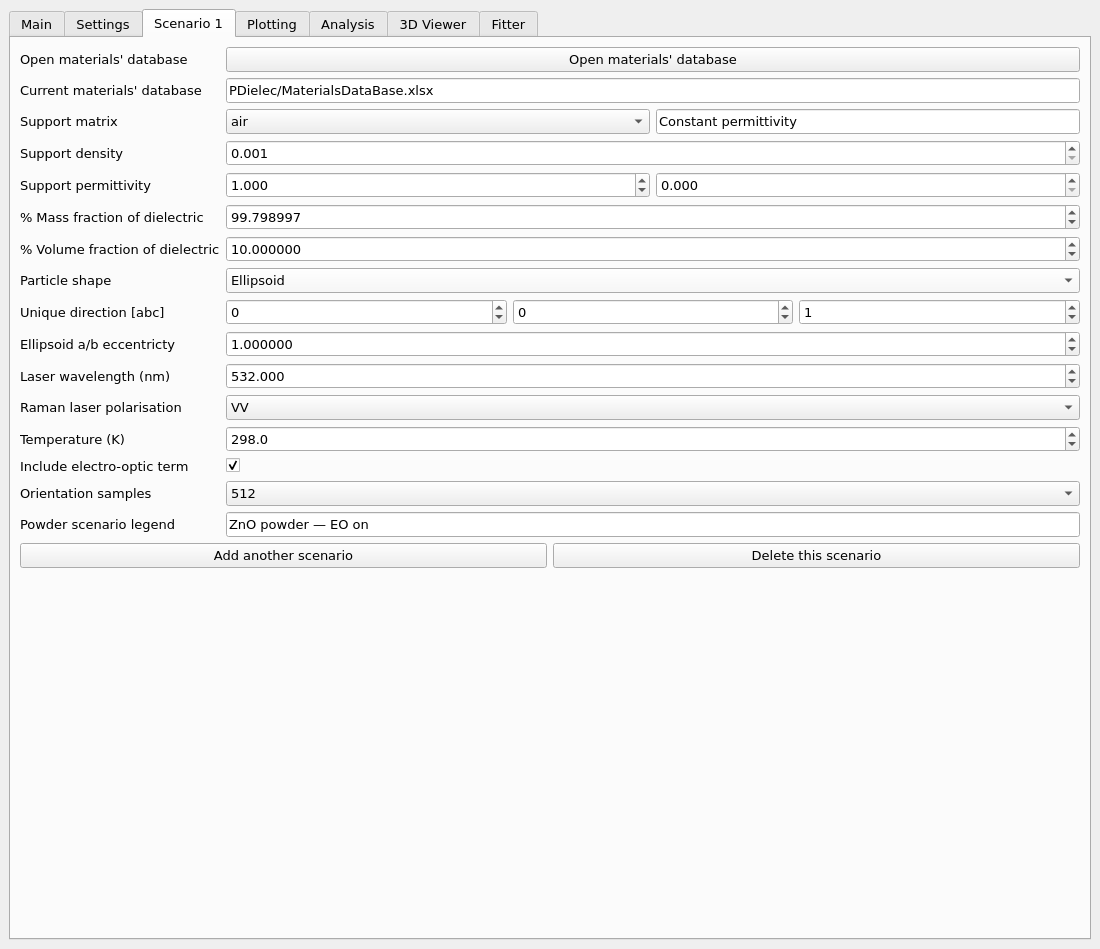
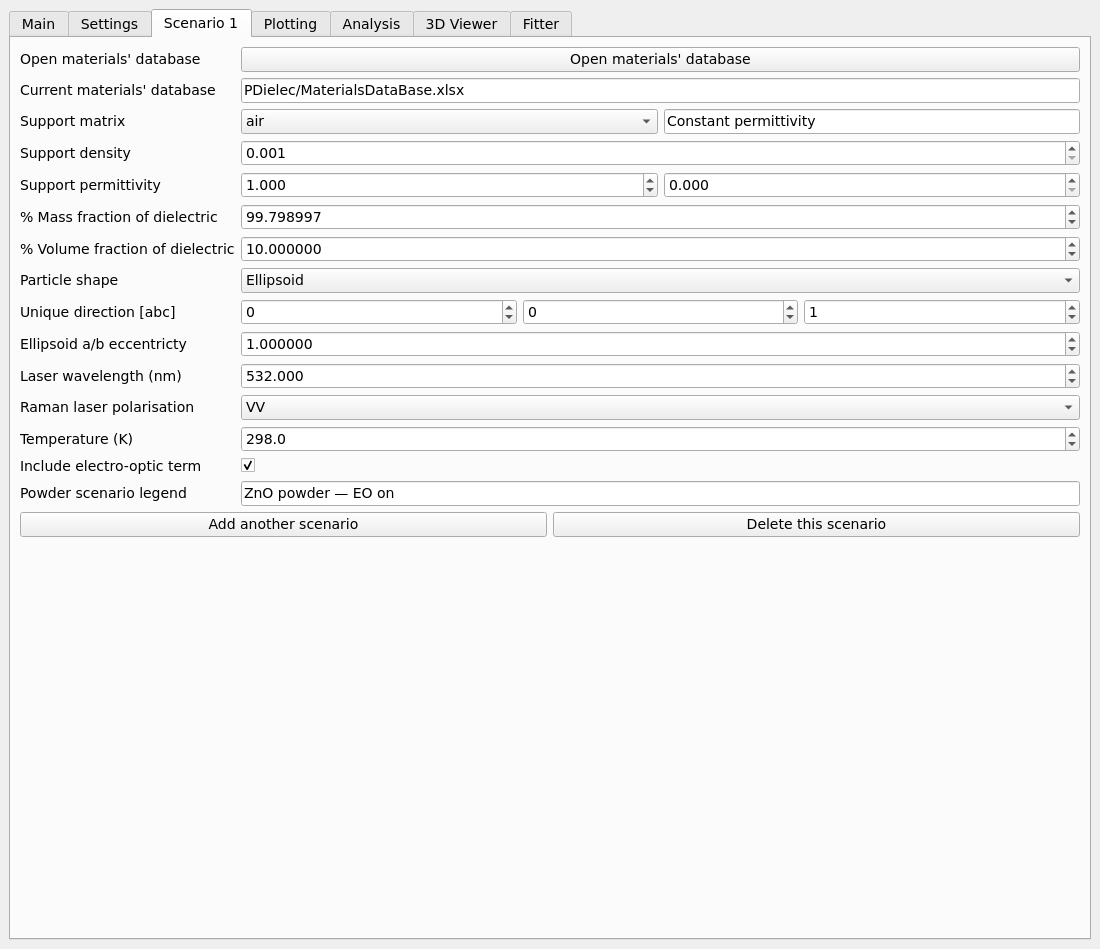
Updating documentation

diff --git a/Sphinx/RamanUnits.rst b/Sphinx/RamanUnits.rst
@@ -1,0 +1,173 @@
+.. include:: preamble.txt
+
+.. _Raman-Units:
+
+Raman units and implementation conventions
+==========================================
+
+This is the shared numerical-conversion reference for the powder and crystal
+Raman chapters. The physical derivations use SI quantities; numerical Raman
+frequencies denoted by :math:`\nu` are wavenumbers in cm\ :sup:`−1`.
+Use :math:`f` for ordinary frequency in Hz and :math:`\omega=2\pi f` for
+angular frequency. The GTM optical solver takes Hz, whereas Raman interfaces
+and linewidths use wavenumbers. Material properties are relative permittivities.
+
+.. list-table:: Common optical and Raman conversion boundaries
+   :header-rows: 1
+   :widths: 28 36 36
+
+   * - Quantity
+     - Stored convention
+     - Conversion or consequence
+   * - Optical frequency
+     - Wavenumber in cm\ :sup:`−1`
+     - :math:`f_{Hz}=100c_{SI}\nu`, :math:`\omega=2\pi f_{Hz}`
+   * - Laser wavelength
+     - Nanometres
+     - :math:`\nu_L=10^7/\lambda_{nm}`
+   * - Optical depth and phase
+     - Depth in metres; :math:`\zeta,q_z` dimensionless
+     - :math:`k_0=2\pi100\nu`; propagation phase uses :math:`k_0q_z z`
+   * - Raman depth quadrature
+     - Weights in Å
+     - Metre-valued quadrature weights multiplied by :math:`10^{10}`
+   * - Raman tensor
+     - :math:`R_\epsilon` in :math:`\sqrt{\mathrm{Å}/\mathrm{amu}}`
+     - Multiply by :math:`\sqrt{10^{-10}/m_u}` for :math:`\sqrt{\mathrm m/\mathrm{kg}}`
+   * - Raw coherent overlap squared
+     - Å cubed per amu
+     - Multiply by :math:`10^{-30}/m_u` for cubic metres per kg
+   * - Local or normalized-profile weight
+     - Å squared per amu
+     - Multiply by :math:`10^{-20}/m_u` for square metres per kg
+   * - Stokes prefactor
+     - :math:`\nu_S^4(n+1)/\nu_m`, all wavenumbers in cm\ :sup:`−1`
+     - Applied once; excludes absolute radiation and collection constants
+   * - Broadened line
+     - :math:`I_m\sigma_m/[(\nu-\nu_m)^2+\sigma_m^2]`
+     - Full area :math:`\pi I_m`; width is HWHM
+
+Here :math:`m_u` is the atomic mass unit in kg. These conversions do not equate
+raw coherent and local observables or supply missing physical normalization.
+
+
+Cell, mode and response conversions
+-----------------------------------
+
+.. list-table:: Lattice and response quantities
+   :header-rows: 1
+   :widths: 24 36 40
+
+   * - Quantity
+     - Stored convention
+     - Boundary or consequence
+   * - Cell volume
+     - Reader volume in Å cubed
+     - :math:`V_{SI}=10^{-30}V`; NAC uses :math:`V_{au}=V\,\mathrm{angs2bohr}^3`
+   * - Atomic masses
+     - Reader masses in amu
+     - NAC uses :math:`M_{au}=M\,\mathrm{Constants.amu}`; SI uses :math:`M m_u`
+   * - Born charge
+     - Elementary-charge units, crystal Cartesian frame
+     - Multiply by :math:`e` for coulombs; mass-weighted matrix divides by :math:`\sqrt{M_{au}}` in the NAC kernel
+   * - Mode coordinate
+     - :math:`Q` in Å times square root of amu; dimensionless unit-normalised mass-weighted eigenvector :math:`u`
+     - :math:`Q_{SI}=10^{-10}\sqrt{m_u}Q`; displacement :math:`r_a=u_a Q/\sqrt{M_a}`
+   * - Dynamical matrix
+     - Hartree atomic units in NAC calculations
+     - Signed wavenumber :math:`\nu=\operatorname{sgn}(\lambda)\sqrt{|\lambda|}/\mathrm{Constants.wavenumber}`; negative values flag instability
+   * - Polarizability-volume Raman derivative
+     - :math:`R_\alpha` in Å squared per square root of amu
+     - :math:`R_\epsilon=4\pi R_\alpha/\sqrt{V}`; this source convention differs from SI dipole polarizability
+   * - Activity display
+     - Å to the fourth power per amu
+     - Multiply the corresponding internal quadratic tensor activity by :math:`V/(16\pi^2)`; this is not a spectrum or cross section
+   * - Nonlinear susceptibility
+     - Physical input in pm/V, then cell-dependent internal value
+     - :math:`\widetilde\chi^{(2)}=\chi^{(2)}[\mathrm{pm/V}]\sqrt{m_u/m_e}\,e10^8/(4\pi\epsilon_0\sqrt{V})`
+   * - Local-field factors
+     - Dimensionless tensors in the same Cartesian frame as the Raman tensor
+     - :math:`R_{eff}=N_S^T R_\epsilon N_L` retains the bulk tensor units; transpose is not conjugate transpose
+
+Here :math:`V` in reader conversions is the numerical volume in Å cubed,
+:math:`m_e` and :math:`m_u` are masses in kg, and :math:`e` is in coulombs.
+``Constants.amu`` is the mass ratio :math:`m_u/m_e`, not a mass in kg.
+``Constants.wavenumber`` is :math:`100hc_{SI}/E_h`. For an SI dynamical
+matrix, use :math:`\operatorname{sgn}(\lambda)\sqrt{|\lambda|}/(2\pi100c_{SI})`
+instead. Do not insert SI charges or masses into the atomic-unit NAC kernel.
+The internal EO contraction uses :math:`-8\pi\widetilde\chi^{(2)}` with
+atomic-unit mass-weighted charges; it cannot take raw pm/V input.
+
+Implementation and frames
+-------------------------
+
+* ``GenericOutputReader.get_raman_tensors`` returns bulk
+  :math:`R_\epsilon=\sqrt{V_{cell}}\partial\epsilon/\partial Q` in crystal
+  Cartesian axes. Reader-specific native conversions precede this boundary.
+  ``chi2_pm_per_v_to_repsilon`` implements the separate nonlinear conversion.
+* ``NACDiagnostics.compute_nac_direction_diagnostics`` accepts atomic-unit
+  masses and volume. Its eigenvectors are dimensionless; its reported mode
+  charges explicitly convert back to :math:`e/\sqrt{\mathrm{amu}}`.
+* ``Calculator.compute_effective_raman_tensor`` applies the two optical
+  factors. A crystal-to-laboratory rotation is :math:`G R G^T`; rotating a
+  tensor changes its components, not its units or cell normalization.
+* ``LayeredRamanCalculator`` uses optical positions in metres and Raman
+  integration weights in Å. Its fields are reduced unit-electric-amplitude
+  launch fields, not physical V/m inputs. GTM magnetic output is scaled by
+  vacuum impedance relative to the same electric reference amplitude.
+* ``RamanSpectrum.stokes_prefactor`` supplies the thermal/radiation weight
+  once. ``lorentzian_broaden`` broadens the weighted line coefficients.
+  The SI unit of a theoretical efficiency must not be attached to these
+  uncalibrated reduced spectra.
+
+Worked conversion examples
+--------------------------
+
+These examples check conventions with prescribed tensors and fields; they are
+not material predictions or new DFT results.
+
+**Reader tensor.** For :math:`V=100` Å cubed and one component
+:math:`R_\alpha=2` Å squared per square root of amu,
+:math:`R_\epsilon=0.8\pi` in :math:`\sqrt{\mathrm{Å}/\mathrm{amu}}`.
+Its square is :math:`0.64\pi^2` Å/amu. Multiplication by
+:math:`V/(16\pi^2)` recovers the squared source component, 4 Å to the fourth
+power per amu. This scalar check is not the full invariant powder activity.
+The SI Raman component is :math:`0.8\pi\sqrt{10^{-10}/m_u}`.
+
+**Powder particle.** Prescribe :math:`R_\epsilon=I` in stored tensor units,
+relative inclusion permittivity 4, host permittivity 1, and a sphere.
+At both optical frequencies :math:`N=3/(4+2)I=I/2`, so
+:math:`R_{eff}=I/4`. The implemented activities are VV = :math:`45/16`
+and VH = 0 in Å/amu. The VV activity is 45 times the orientational mean
+squared amplitude. For a stable mode at 400 cm\ :sup:`−1`, laser at
+20000 cm\ :sup:`−1`, zero temperature, unit volume fraction and HWHM 5
+cm\ :sup:`−1`, the reduced peak height is
+:math:`(45/16)(19600)^4/(400\times5)`. It is not an absolute cross section.
+
+**Crystal layer.** Let the reduced bilinear overlap be constant,
+:math:`e_S^T R_\epsilon e_L=1` in :math:`\sqrt{\mathrm{Å}/\mathrm{amu}}`,
+over a 100 nm layer. Its optical thickness is :math:`10^{-7}` m; its Raman
+quadrature weights sum to 1000 Å. The raw coherent squared overlap is
+:math:`10^6` Å cubed/amu, whereas the local-depth weight is 1000 Å squared/amu.
+A single normalized uniform profile gives the latter weight for this constant
+overlap. Neither expression includes the Stokes prefactor. Doubling thickness
+multiplies the raw coherent weight by four and the local weight by two.
+
+**Spectral axis.** With :math:`a=2\pi100c_{SI}` and
+:math:`\omega=a\nu`, a spectral density obeys
+:math:`I_\omega(\omega)=I_\nu(\omega/a)/a`. Merely relabelling the axis
+or multiplying the line centre and width by :math:`a` does not preserve area.
+The numerical Lorentzian area is :math:`\pi` times its supplied coefficient.
+
+Validation scope
+----------------
+
+The conversion reference records implementation conventions and the bounded
+checks described in the Raman theory chapters. It does not certify all
+materials, optical regimes or physical final-state models. Broader NAC material
+validation and general absorbing/anisotropic multilayer validation will be
+carried out with the package paper's examples. Each example must establish the
+assumptions it relies on before its spectrum is interpreted. Existing datasets
+and controlled limits should be used first; additional DFT calculations require
+an identified missing input or validation case. General extensions outside the
+chosen examples remain separate work.

diff --git a/Sphinx/CrystalRaman.rst b/Sphinx/CrystalRaman.rst
@@ -239,6 +239,34 @@ not determine phonon coherence.  When *Incoherent intensity* is selected, PDiele
 forces separate Raman-active layers to be combined as incoherent intensities,
 because there is then no well-defined layer amplitude to add coherently.
 
+*Normalised incoherent intensity* uses a depth average for each effective
+Raman-active layer, then sums those averages:
+
+.. math::
+   :label: eq-crystal-raman-depth-normalised-incoherent
+
+   I_m \propto \sum_L \frac{1}{d_L}
+   \int_L \left|
+   \mathbf{E}_S(z,\nu_S)^T
+   \tensorbf{R}^{(m)}_{L,lab}
+   \mathbf{E}_L(z,\nu_L)
+   \right|^2\,dz .
+
+Equivalent neighbouring layers are merged using the existing equivalence rules
+before normalisation, even when the script setting ``Coalesce equivalent layers``
+is false. Their combined thickness supplies :math:`d_L`. Layers that cannot be
+merged are averaged separately, and their intensities are added. Zero-thickness
+layers contribute zero. Both incoherent depth choices disable coherent layer
+combination; depth coherence is a calculator-wide setting, separate from each
+layer's optical propagation coherence.
+
+For a single layer with uniform fields the normalised intensity is independent
+of thickness. For an absorbing layer whose integrated signal saturates, the
+average decreases with increasing geometric thickness. Before the common Stokes
+factor, its raw overlap units are Å/amu, compared with Å²/amu for the unnormalised
+incoherent integral. This is a depth average, not absolute scattering power or a
+normalised collective phonon-state model.
+
 The mode intensity is then multiplied by the Stokes radiation and thermal factor,
 
 .. math::
@@ -761,40 +789,7 @@ does not automatically recover every unobserved final state or spectral window.
 Numerical conventions
 ---------------------
 
-.. list-table:: Theory-to-code conversions for the layered Raman calculation
-   :header-rows: 1
-   :widths: 28 36 36
-
-   * - Quantity
-     - Stored convention
-     - Conversion or consequence
-   * - Optical frequency
-     - Wavenumber in cm\ :sup:`−1`
-     - :math:`f_{Hz}=100c_{SI}\nu`, :math:`\omega=2\pi f_{Hz}`
-   * - Laser wavelength
-     - Nanometres
-     - :math:`\nu_L=10^7/\lambda_{nm}`
-   * - Optical depth and phase
-     - Depth in metres; :math:`\zeta,q_z` dimensionless
-     - :math:`k_0=2\pi100\nu`; propagation phase uses :math:`k_0q_z z`
-   * - Raman depth quadrature
-     - Weights in Å
-     - Metre-valued quadrature weights multiplied by :math:`10^{10}`
-   * - Raman tensor
-     - :math:`R_\epsilon` in :math:`\sqrt{\mathrm{Å}/\mathrm{amu}}`
-     - Multiply by :math:`\sqrt{10^{-10}/m_u}` for :math:`\sqrt{\mathrm m/\mathrm{kg}}`
-   * - Raw coherent overlap squared
-     - Å cubed per amu
-     - Multiply by :math:`10^{-30}/m_u` for cubic metres per kg
-   * - Local or normalized-profile weight
-     - Å squared per amu
-     - Multiply by :math:`10^{-20}/m_u` for square metres per kg
-   * - Stokes prefactor
-     - :math:`\nu_S^4(n+1)/\nu_m`, all wavenumbers in cm\ :sup:`−1`
-     - Applied once; excludes absolute radiation and collection constants
-   * - Broadened line
-     - :math:`I_m\sigma_m/[(\nu-\nu_m)^2+\sigma_m^2]`
-     - Full area :math:`\pi I_m`; width is HWHM
-
-Here :math:`m_u` is the atomic mass unit in kg. These conversions do not equate
-raw coherent and local observables or supply missing physical normalization.
+The common conversion table, implementation boundaries and worked examples are
+in :ref:`Raman-Units`. The raw coherent overlap and local-depth integral have
+different length dimensions; converting their units does not make them the same
+observable or supply an absolute Raman cross section.

diff --git a/Sphinx/settings_reference.rst b/Sphinx/settings_reference.rst
@@ -262,9 +262,8 @@ particle-corrected phonons and the electro-optic contribution.
     population factor.
 
 ``Raman orientation samples``
-    Number of numerical orientations for non-spherical particles. The GUI
-    offers ``4, 8, 16, 32, 64, 128, 256, 512, 1024, 2048, 4096``; default
-    ``512``. Increase to check convergence. Spheres use an analytic average.
+    Legacy setting, ignored. All supported powder particle shapes now use
+    analytical orientation averaging; the GUI no longer exposes this control.
 
 ``Raman electro-optic term``
     Boolean, default ``False`` for a new powder scenario. Includes the
@@ -409,8 +408,13 @@ NAC/EO corrections and the different coherence choices.
 
 ``Depth coherence``
     ``'Coherent amplitude'`` (default) integrates amplitudes over depth before
-    squaring. ``'Incoherent intensity'`` integrates local intensities. This is
-    a Raman emission choice, not the optical layer's propagation coherence.
+    squaring. ``'Incoherent intensity'`` integrates local intensities.
+    ``'Normalised incoherent intensity'`` divides each effective layer's local
+    intensity integral by its thickness, then sums the layer averages.
+    Equivalent neighbouring layers are merged first; zero-thickness layers
+    contribute zero. Both incoherent options disable coherent layer combination.
+    This calculator-wide Raman emission choice is separate from each optical
+    layer's propagation coherence.
 
 ``Approximate ES``
     Script-only boolean, default ``False``. If ``True``, evaluates the reciprocal
@@ -422,7 +426,9 @@ NAC/EO corrections and the different coherence choices.
 ``Coalesce equivalent layers``
     Script-only boolean, default ``True``. Merges adjacent equivalent coherent
     layers before Raman integration. ``False`` retains the original layer
-    boundaries and is useful for subdivision checks.
+    boundaries and is useful for subdivision checks. With ``Depth coherence``
+    set to ``'Normalised incoherent intensity'``, equivalent neighbouring layers
+    are always merged so their combined thickness defines the average.
 
 ``Raman electro-optic term``
     Boolean, default ``True`` for crystal scenarios. Includes χ⁽²⁾ in the

diff --git a/Sphinx/PowderRaman.rst b/Sphinx/PowderRaman.rst
@@ -222,9 +222,9 @@ The measure :math:`dg` is normalised to one. For fixed relative shape/crystal
 axes in an isotropic host, both the optical local-field tensors and the Raman
 tensor co-rotate, so :eq:`eq-powder-raman-rotation` also holds for nonspherical
 particles. The invariant expressions are therefore valid for these shapes too.
-The current GUI uses analytic invariants for spheres and samples rotations for
-nonspherical particle modes, averaging the fixed laboratory polarisation geometry.
-This is an implementation choice, not a restriction of the invariant identity.
+The GUI uses analytic invariants for all supported particle shapes. Particle
+frequencies, mode mixing and electro-optic corrections are calculated once in
+the particle frame; no orientation sample count is required.
 
 If Born-charge or Hessian data are unavailable, PDielec retains the supplied TO
 frequencies and Raman tensors and omits the particle frequency/EO correction.
@@ -264,3 +264,9 @@ local fields; this differs from embedding a particle in a host of permittivity o
 Explicit mode selection cannot override the stable Stokes conditions: contributing
 frequencies must be finite, at least 1 cm\ :sup:`−1`, and below the laser
 wavenumber. The shared Stokes factor has a finite zero-temperature limit.
+
+Numerical units and validation scope
+------------------------------------
+
+See :ref:`Raman-Units` for the common conversions, worked reader/powder/layer
+examples and the scope of validation associated with the package paper.

diff --git a/Sphinx/pdgui.rst b/Sphinx/pdgui.rst
@@ -366,11 +366,11 @@ as well as the response needed for the particle phonon correction. Enabling
 the checkbox cannot supply missing data. The CASTEP ZnO example contains this
 response, and switching EO off gives a different spectrum.
 
-*Orientation samples* selects the number of numerical orientations for
-non-spherical particles, from 4 to 4096, initially 512. Increase it to check
-convergence of an anisotropic particle average. Spheres do not need this
-numerical sampling. Particle shape can affect both the mode frequencies and
-the Raman response, so a change in shape is not simply a rescaling of peaks.
+All supported particle shapes use analytical orientation averaging. There is
+no sample-count control or sampling-convergence parameter. Particle shape can
+affect both the mode frequencies and the Raman response, so a change in shape
+is not simply a rescaling of peaks. Particle-mode and electro-optic corrections
+are retained and calculated once in the particle frame.
 
 .. figure:: _static/Figures/gui/powder-raman-ellipsoid.png
    :width: 100%

diff --git a/Sphinx/application_notes_gan.rst b/Sphinx/application_notes_gan.rst
@@ -181,9 +181,8 @@ fraction in all four scenarios isolates these corrections. The particle
 model is the small-particle, quasistatic limit; the stored particle-size
 setting is not a measured GaN size or a finite-size Raman resonance.
 
-For spheres, the orientational average uses analytic tensor invariants.
-There is no orientation-sampling convergence parameter to tune for this
-case. For a symmetric Raman tensor, VV contains
+For all supported particle shapes, the orientational average uses analytic
+tensor invariants. There is no orientation-sampling convergence parameter. For a symmetric Raman tensor, VV contains
 :math:`45\alpha^2+4\gamma^2` and VH contains :math:`3\gamma^2`, where
 :math:`\alpha` is the isotropic part and :math:`\gamma` measures anisotropy.
 Thus a traceless isolated mode has VH/VV = 3/4. This is useful for the

diff --git a/Sphinx/index.rst b/Sphinx/index.rst
@@ -35,6 +35,7 @@ For single crystals (thin films or slabs), a generalized transfer matrix or a sc
    theory_single_crystal
    PowderRaman
    CrystalRaman
+   RamanUnits
    analysis
 
 .. toctree::

diff --git a/Sphinx/index-latex.rst b/Sphinx/index-latex.rst
@@ -19,6 +19,7 @@ Contents
    theory_single_crystal
    PowderRaman
    CrystalRaman
+   RamanUnits
    analysis
    application_notes_1
    application_notes_2
